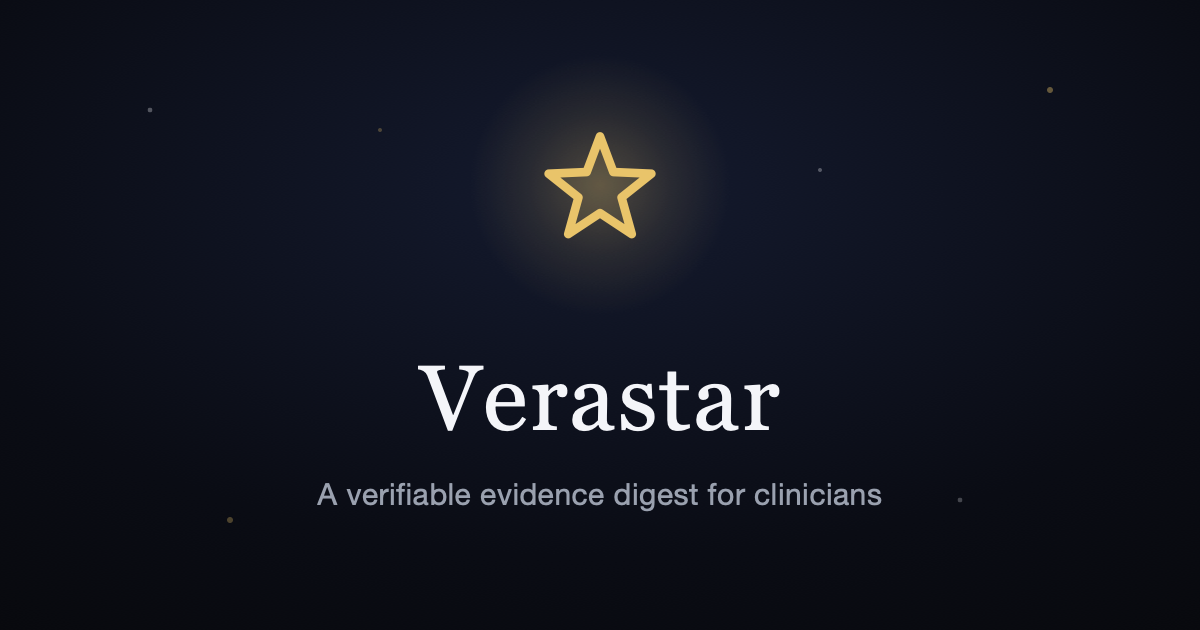
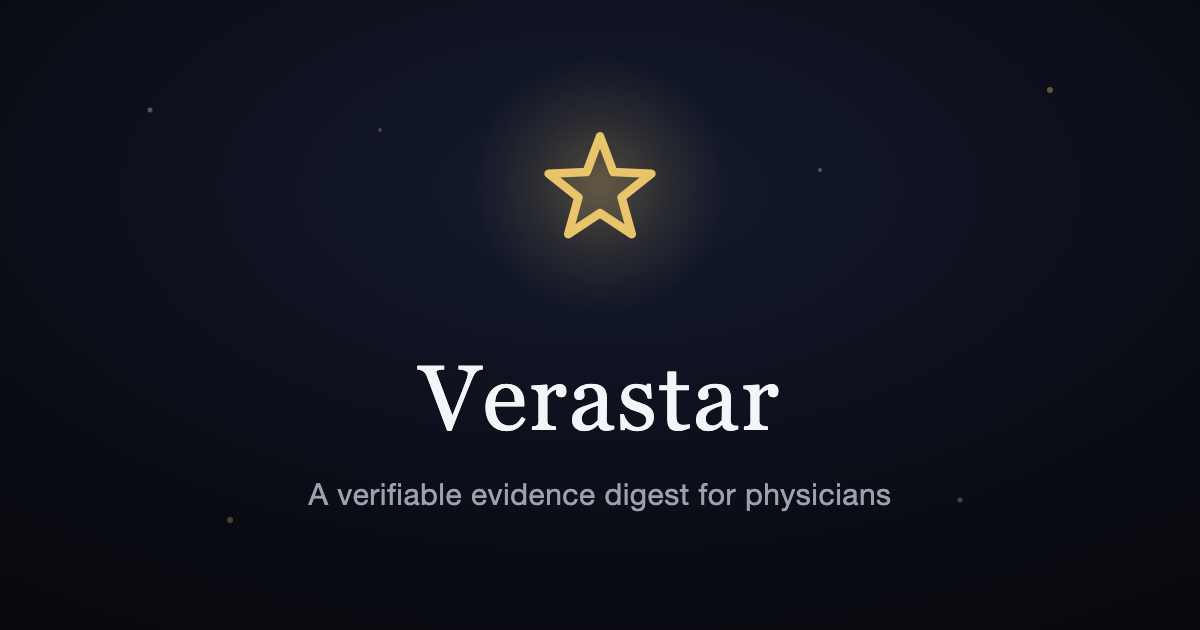
Homepage share card: canonical domain, physicians
og:url, og:image and twitter:image now point at verastar.papertrellis.com
(the netlify.app host only 301s there). Adds a canonical link. Descriptions,
manifest, README and the share image say physicians instead of clinicians.

diff --git a/index.html b/index.html
@@ -4,7 +4,7 @@
     <meta charset="UTF-8" />
     <meta name="viewport" content="width=device-width, initial-scale=1.0, viewport-fit=cover" />
     <title>Verastar — verifiable evidence digest</title>
-    <meta name="description" content="A verifiable evidence digest for clinicians. Every number click-traceable to its source, or flagged." />
+    <meta name="description" content="A verifiable evidence digest for physicians. Every number click-traceable to its source, or flagged." />
     <link rel="icon" href="/icon.svg" type="image/svg+xml" />
     <link rel="icon" href="/favicon.png" type="image/png" sizes="64x64" />
     <link rel="apple-touch-icon" href="/apple-touch-icon.png" />
@@ -15,17 +15,18 @@
     <meta name="apple-mobile-web-app-capable" content="yes" />
     <meta name="apple-mobile-web-app-status-bar-style" content="black-translucent" />
     <meta name="apple-mobile-web-app-title" content="Verastar" />
+    <link rel="canonical" href="https://verastar.papertrellis.com/" />
     <meta property="og:title" content="Verastar" />
-    <meta property="og:description" content="A verifiable evidence digest for clinicians. Every number click-traceable to its source, or flagged." />
+    <meta property="og:description" content="A verifiable evidence digest for physicians. Every number click-traceable to its source, or flagged." />
     <meta property="og:type" content="website" />
-    <meta property="og:url" content="https://verastar.netlify.app/" />
-    <meta property="og:image" content="https://verastar.netlify.app/og-image.png" />
+    <meta property="og:url" content="https://verastar.papertrellis.com/" />
+    <meta property="og:image" content="https://verastar.papertrellis.com/og-image.png" />
     <meta property="og:image:width" content="1200" />
     <meta property="og:image:height" content="630" />
     <meta name="twitter:card" content="summary_large_image" />
     <meta name="twitter:title" content="Verastar" />
-    <meta name="twitter:description" content="A verifiable evidence digest for clinicians. Every number click-traceable to its source, or flagged." />
-    <meta name="twitter:image" content="https://verastar.netlify.app/og-image.png" />
+    <meta name="twitter:description" content="A verifiable evidence digest for physicians. Every number click-traceable to its source, or flagged." />
+    <meta name="twitter:image" content="https://verastar.papertrellis.com/og-image.png" />
     <link rel="preconnect" href="https://fonts.googleapis.com" />
     <link rel="preconnect" href="https://fonts.gstatic.com" crossorigin />
     <link href="https://fonts.googleapis.com/css2?family=Spectral:ital,wght@0,400;0,500;0,600;1,400;1,500&family=IBM+Plex+Sans:wght@300;400;500;600&family=IBM+Plex+Mono:wght@400;500&display=swap" rel="stylesheet" />

diff --git a/README.md b/README.md
@@ -1,6 +1,6 @@
 # Verastar
 
-**A verifiable evidence digest for clinicians.**
+**A verifiable evidence digest for physicians.**
 
 **▶ Demo:** https://youtu.be/RmT7JjTTqeM · **Live:** https://verastar.papertrellis.com
 
@@ -17,7 +17,7 @@ you own — your reading and your memory, on your own machine, never locked insi
 
 It is the app version of a system I already run by hand: a personal knowledge base, a
 context portfolio, and a daily research briefing. Verastar makes it something any
-clinician can pick up — and I built it end-to-end with Claude Code, as a physician who
+physician can pick up — and I built it end-to-end with Claude Code, as a physician who
 never wrote a line of code before late 2025.
 
 Built for **Built with Claude: Life Sciences** (Anthropic × Gladstone Institutes),
